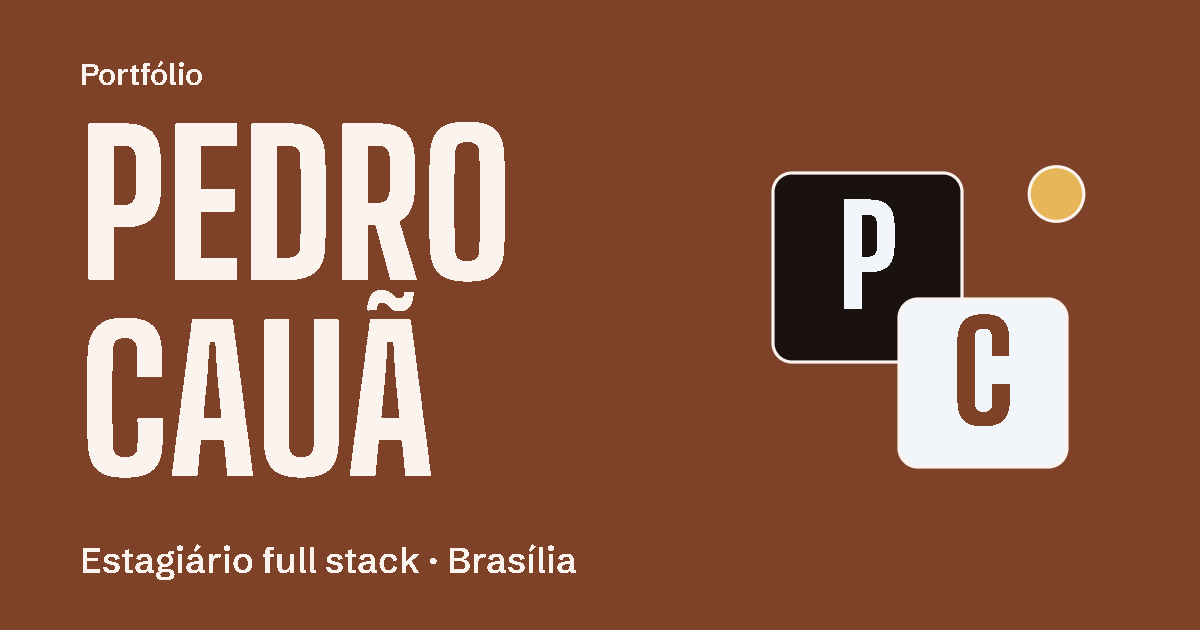
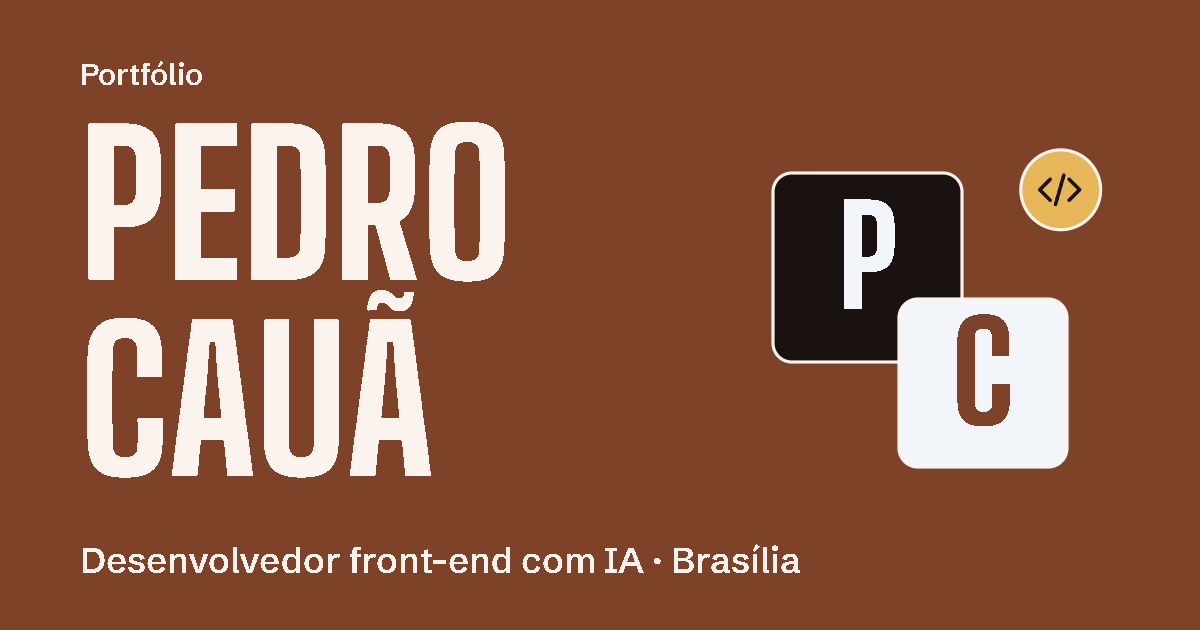
Posicionamento: desenvolvedor front-end com IA (estagiário só na Trajetória)

Changed region(s): [[0.0617, 0.8444, 0.6783, 0.9349], [0.8325, 0.2111, 0.925, 0.3921]]

diff --git a/index.html b/index.html
@@ -3,8 +3,8 @@
 <head>
 <meta charset="utf-8">
 <meta name="viewport" content="width=device-width, initial-scale=1, viewport-fit=cover">
-<title>Pedro Cauã · Estagiário full stack</title>
-<meta name="description" content="Portfólio de Pedro Cauã, estagiário full stack em Brasília. Angular e testes unitários no TSE, QA, projetos com IA aplicada, o Nodify (meu TCC) e certificados.">
+<title>Pedro Cauã · Desenvolvedor front-end com IA</title>
+<meta name="description" content="Portfólio de Pedro Cauã, desenvolvedor front-end que atua com IA, em Brasília. Angular e testes unitários no TSE, QA, projetos com IA aplicada, o Nodify (meu TCC) e certificados.">
 <meta name="author" content="Pedro Cauã">
 <meta name="color-scheme" content="dark light">
 <script>document.documentElement.classList.remove("no-js");try{var m=localStorage.getItem("motion");if(m==="on"||m==="off")document.documentElement.classList.add("motion-"+m);var lg=localStorage.getItem("lang");if(lg==="en")document.documentElement.setAttribute("lang","en");var tm=localStorage.getItem("theme");if(tm==="light"||tm==="dark")document.documentElement.setAttribute("data-theme",tm)}catch(e){}</script>
@@ -14,16 +14,16 @@
 <meta property="og:type" content="website">
 <meta property="og:locale" content="pt_BR">
 <meta property="og:site_name" content="Pedro Cauã">
-<meta property="og:title" content="Pedro Cauã · Estagiário full stack">
-<meta property="og:description" content="Portfólio de Pedro Cauã, estagiário full stack em Brasília. Angular e testes unitários no TSE, QA, projetos com IA aplicada, o Nodify (meu TCC) e certificados.">
+<meta property="og:title" content="Pedro Cauã · Desenvolvedor front-end com IA">
+<meta property="og:description" content="Portfólio de Pedro Cauã, desenvolvedor front-end que atua com IA, em Brasília. Angular e testes unitários no TSE, QA, projetos com IA aplicada, o Nodify (meu TCC) e certificados.">
 <meta property="og:url" content="https://portfolio-pedro-caua.vercel.app/">
 <meta property="og:image" content="https://portfolio-pedro-caua.vercel.app/og.png">
 <meta property="og:image:width" content="1200">
 <meta property="og:image:height" content="630">
-<meta property="og:image:alt" content="Pedro Cauã, estagiário full stack em Brasília, com os quadrados P e C sobre fundo terracota">
+<meta property="og:image:alt" content="Pedro Cauã, desenvolvedor front-end com IA em Brasília, com os quadrados P e C sobre fundo terracota">
 <meta name="twitter:card" content="summary_large_image">
-<meta name="twitter:title" content="Pedro Cauã · Estagiário full stack">
-<meta name="twitter:description" content="Portfólio de Pedro Cauã, estagiário full stack em Brasília. Angular e testes unitários no TSE, QA, projetos com IA aplicada, o Nodify (meu TCC) e certificados.">
+<meta name="twitter:title" content="Pedro Cauã · Desenvolvedor front-end com IA">
+<meta name="twitter:description" content="Portfólio de Pedro Cauã, desenvolvedor front-end que atua com IA, em Brasília. Angular e testes unitários no TSE, QA, projetos com IA aplicada, o Nodify (meu TCC) e certificados.">
 <meta name="twitter:image" content="https://portfolio-pedro-caua.vercel.app/og.png">
 <script type="application/ld+json">
 {
@@ -31,8 +31,8 @@
   "@type": "Person",
   "name": "Pedro Cauã Rodrigues Pereira",
   "alternateName": "Pedro Cauã",
-  "jobTitle": "Estagiário full stack",
-  "description": "Portfólio de Pedro Cauã, estagiário full stack em Brasília. Angular e testes unitários no TSE, QA, projetos com IA aplicada, o Nodify (meu TCC) e certificados.",
+  "jobTitle": "Desenvolvedor front-end",
+  "description": "Portfólio de Pedro Cauã, desenvolvedor front-end que atua com IA, em Brasília. Angular e testes unitários no TSE, QA, projetos com IA aplicada, o Nodify (meu TCC) e certificados.",
   "url": "https://portfolio-pedro-caua.vercel.app/",
   "image": "https://portfolio-pedro-caua.vercel.app/assets/foto-pedro-576.webp",
   "worksFor": {
@@ -531,9 +531,9 @@ p{text-wrap:pretty}
   <section id="inicio" class="hero" data-tone="accent" aria-labelledby="nome">
     <div class="wrap hero-grid">
       <div class="hero-text">
-        <p class="mono eyebrow">Brasília · Ciência da Computação, 7º semestre</p>
+        <p class="mono eyebrow">Desenvolvedor front-end com IA · Brasília</p>
         <h1 id="nome" class="nome" translate="no" aria-label="Pedro Cauã"><span class="line"><span class="word">Pedro</span></span> <span class="line"><span class="word">Cauã</span></span></h1>
-        <p class="lede">Faço estágio full stack no Tribunal Superior Eleitoral e curso Ciência da Computação na UCB. Antes, passei por marketing digital e por infraestrutura de TI.</p>
+        <p class="lede">Desenvolvo front-end com Angular e JavaScript no Tribunal Superior Eleitoral e uso IA no trabalho. Curso Ciência da Computação na UCB. Antes, passei por marketing digital e por infraestrutura de TI.</p>
         <p class="hero-status"><span class="dot" aria-hidden="true"></span>Busco oportunidades em desenvolvimento de software, qualidade e IA aplicada.</p>
         <div class="hero-cta">
           <a class="btn btn--solid" href="#projetos">Ver projetos</a>
@@ -795,16 +795,16 @@ p{text-wrap:pretty}
       <div class="sobre-text">
         <p class="mono eyebrow">Sobre</p>
         <h2 id="t-sobre" class="h-giant" data-reveal>Quem sou eu?</h2>
-        <p data-reveal>Sou o <span translate="no">Pedro Cauã</span>, estudante do 7º semestre de Ciência da Computação na UCB e estagiário full stack no Tribunal Superior Eleitoral. Cuido de dois sistemas com Angular e JavaScript e, algumas vezes, atuo como QA.</p>
+        <p data-reveal>Sou o <span translate="no">Pedro Cauã</span>, estudante do 7º semestre de Ciência da Computação na UCB e desenvolvedor front-end no Tribunal Superior Eleitoral. Cuido de dois sistemas com Angular e JavaScript e, algumas vezes, atuo como QA. Também desenho e uso agentes de IA no trabalho.</p>
         <p>Já passei por marketing digital na Muvve Tech, com tráfego pago e desenvolvimento, e por infraestrutura de TI na Novacap. Hoje também aplico IA no meu fluxo de trabalho, com agentes e skills que ajudam na análise de tarefas e na revisão de código.</p>
         <p>Gosto de software que as pessoas conseguem usar. Meu TCC, o Nodify, é um aplicativo de acessibilidade que controla o Spotify com movimentos da cabeça.</p>
       </div>
       <div class="id-card" data-tone="dark">
         <div class="id-top">
           <div class="mono-tile"><span aria-hidden="true">PC</span><img src="assets/foto-pedro-288.webp" translate="no" srcset="assets/foto-pedro-288.webp 288w, assets/foto-pedro-576.webp 576w" sizes="96px" width="96" height="96" alt="Foto de Pedro Cauã" loading="lazy" decoding="async"></div>
-          <div><h3 translate="no">Pedro Cauã</h3><p>Estagiário full stack · TSE</p></div>
+          <div><h3 translate="no">Pedro Cauã</h3><p>Desenvolvedor front-end · TSE</p></div>
         </div>
-        <div class="tags"><span class="chip">Full stack</span><span class="chip">QA</span><span class="chip">IA aplicada</span><span class="chip">Marketing digital</span></div>
+        <div class="tags"><span class="chip">Front-end</span><span class="chip">QA</span><span class="chip">IA aplicada</span><span class="chip">Marketing digital</span></div>
         <p class="id-meta mono">Currículo · PDF · 2 páginas · atualizado em out/2026</p>
         <div class="id-cv">
           <a class="btn btn--solid" href="assets/curriculo-pedro-caua.pdf" download="Curriculo-Pedro-Caua.pdf" aria-label="Baixar currículo em PDF">Baixar currículo (PDF)</a>
@@ -844,7 +844,7 @@ p{text-wrap:pretty}
   function $$(s, r){ return Array.prototype.slice.call((r || document).querySelectorAll(s)); }
   /* ----- idioma: o HTML é em português; em inglês o script troca os textos pelo dicionário (a troca de idioma recarrega a página) ----- */
   var LANG = root.getAttribute("lang") === "en" ? "en" : "pt";
-  var EN = {"Foto de Pedro Cauã":"Photo of Pedro Cauã","Ir para o conteúdo":"Skip to content","Trajetória":"Timeline","Projetos":"Projects","Agentes":"Agents","Habilidades":"Skills","Sobre":"About","Contato":"Contact","Tema claro":"Light theme","Tema escuro":"Dark theme","Animações: ligadas":"Animations: on","Animações: desligadas":"Animations: off","Pedro Cauã, início":"Pedro Cauã, home","Seções":"Sections","Redes":"Social links","GitHub de Pedro Cauã":"Pedro Cauã on GitHub","LinkedIn de Pedro Cauã":"Pedro Cauã on LinkedIn","Enviar e-mail para Pedro Cauã":"Email Pedro Cauã","Abrir menu":"Open menu","Fechar menu":"Close menu","Menu":"Menu","Brasília · Ciência da Computação, 7º semestre":"Brasília · Computer Science, 7th semester","Faço estágio full stack no Tribunal Superior Eleitoral e curso Ciência da Computação na UCB. Antes, passei por marketing digital e por infraestrutura de TI.":"I'm a full stack intern at the Tribunal Superior Eleitoral (Brazil's Superior Electoral Court) and I study Computer Science at UCB. I also have experience in digital marketing and IT infrastructure.","Busco oportunidades em desenvolvimento de software, qualidade e IA aplicada.":"I'm looking for opportunities in software development, quality and applied AI.","Ver projetos":"See projects","Baixar currículo (PDF)":"Download CV (PDF, in Portuguese)","Baixar currículo em PDF":"Download the CV as a PDF (in Portuguese)","Tecnologias e ferramentas":"Technologies and tools","Trajetória · do mais antigo ao mais recente":"Timeline · oldest to newest","Em números":"In numbers","sistemas no TSE":"systems at the TSE","cursos concluídos":"courses completed","horas de curso":"course hours","projetos":"projects","itens":"items","item":"item","cursos":"courses","horas":"hours","de":"of","Tudo":"All","Trabalho":"Work","Certificados":"Certificates","Filtrar a trajetória":"Filter the timeline","Trajetória, role para o lado":"Timeline, scroll sideways","Anterior":"Previous","Próximo":"Next","Pausar rolagem automática":"Pause auto-scroll","Retomar rolagem automática":"Resume auto-scroll","Ago/2023 a ago/2027 · Formação":"Aug 2023 to Aug 2027 · Education","Ciência da Computação, 7º semestre":"Computer Science, 7th semester","Universidade Católica de Brasília. Disciplinas como Cálculo I, Pesquisa Operacional e Análise e Projeto de Software. O TCC é o Nodify.":"Catholic University of Brasília. Courses include Calculus I, Operations Research and Software Analysis and Design. My capstone project is Nodify.","Nivelamento em Matemática Elementar":"Elementary Mathematics (bridging course)","Nivelamento em Introdução às Finanças Corporativas":"Introduction to Corporate Finance (bridging course)","Fundamentos do SCRUM":"Scrum Fundamentals","Desenvolvimento colaborativo em GitHub":"Collaborative development on GitHub","Base acadêmica":"Academic base","Processos e equipe":"Process and teamwork","IA e dados":"AI and data","Python e APIs":"Python and APIs","Fev/2025 · 4 meses · Estágio":"Feb 2025 · 4 months · Internship","Estagiário de infraestrutura de TI":"IT infrastructure intern","Novacap. Estágio na área de infraestrutura de TI.":"Novacap. Internship in IT infrastructure.","Algoritmos e Lógica de Programação: o curso completo":"Algorithms and Programming Logic: the complete course","Ago/2025 a ago/2027 · Estágio":"Aug 2025 to Aug 2027 · Internship","Estagiário full stack":"Full stack intern","Tribunal Superior Eleitoral, SEUE. Trabalho em dois sistemas com Angular e JavaScript: funcionalidades, ajustes de interface e testes unitários. Em algumas demandas faço o papel de QA. Também desenvolvo agentes e skills de IA para o fluxo de trabalho.":"Superior Electoral Court (TSE), SEUE. I work on two systems with Angular and JavaScript: features, interface adjustments and unit tests. On some tasks I act as QA. I also build AI agents and skills for the work process.","Figma Design de Interfaces, do zero ao profissional":"Figma Interface Design, from scratch to professional","Testes Unitários do Zero com Angular, Jasmine e Karma":"Unit Testing from Scratch with Angular, Jasmine and Karma","2026 · 6 meses · Em paralelo ao TSE":"2026 · 6 months · Alongside the TSE","Gestor de tráfego e desenvolvedor":"Traffic manager and developer","Muvve Tech. Campanhas de tráfego pago no Google Ads e no Meta Ads para clientes. Também cuidei de redes sociais, propostas comerciais e contratos em layout padronizado.":"Muvve Tech. Paid traffic campaigns on Google Ads and Meta Ads for clients. I also handled social media, commercial proposals and contracts in a standard layout.","Três projetos: o app de acessibilidade do meu TCC, o fluxo de agentes que uso no TSE e um assistente de voz que fiz por hobby.":"Three projects: the accessibility app from my capstone, the agent workflow I use at the TSE and a voice assistant I built as a hobby.","TCC · UCB":"Capstone · UCB","É o meu TCC na UCB: um app Android que controla o Spotify com movimentos da cabeça. A câmera frontal capta o gesto e tudo é processado no próprio celular. Começou como ferramenta de acessibilidade e já tem modelagem UML e documentação completa.":"It's my capstone project at UCB: an Android app that controls Spotify with head movements. The front camera picks up the gesture and everything is processed on the phone itself. It started as an accessibility tool and already has UML modeling and full documentation.","visão computacional":"computer vision","acessibilidade":"accessibility","no aparelho":"on-device","Ver o Nodify em ação":"See Nodify in action","Documentação técnica":"Technical documentation","fluxo de trabalho":"workflow","Agentes de IA no trabalho":"AI agents at work","No TSE, desenvolvo agentes e skills de IA no Claude Code para analisar tarefas, escrever histórias de usuário e apoiar a implementação e a revisão de código. O hu-analyst e o agent-dev já estão em uso; o code-reviewer e o orquestrador ainda estão em desenho. Nada entra sem a minha aprovação.":"At the TSE, I build AI agents and skills in Claude Code to analyze tasks, write user stories and support implementation and code review. The hu-analyst and agent-dev are already in use; the code-reviewer and the orchestrator are still being designed. Nothing goes in without my approval.","agentes":"agents","revisão humana":"human review","Ver o fluxo":"See the workflow","concluído":"completed","voz":"voice","automação":"automation","Um assistente de IA que obedece a comandos de voz. Fiz por hobby, para testar automação, agentes e leitura de mensagens.":"An AI assistant that takes voice commands. I built it as a hobby to try out automation, agents and reading messages.","Continue rolando para ver todos os projetos →":"Keep scrolling to see all projects →","Nodify · ilustração do conceito":"Nodify · concept illustration","Nodify em ação":"Nodify in action","A câmera frontal acompanha a cabeça e o app transforma cada gesto em um comando do Spotify.":"The front camera follows the head and the app turns each gesture into a Spotify command.","Detecção do rosto":"Face detection","A câmera encontra o rosto. A imagem não sai do celular.":"The camera finds the face. The image never leaves the phone.","Cabeça para a direita":"Head turn to the right","Pula a faixa.":"Skips the track.","Cabeça para a esquerda":"Head turn to the left","Volta para a faixa anterior.":"Goes back to the previous track.","Aceno para baixo":"Nod down","Abaixa a música.":"Turns the music down.","Processamento 100% no aparelho":"100% on-device processing","câmera ativa":"camera on","rosto detectado":"face detected","Tocando agora":"Now playing","Faixa":"Track","Faixa 1":"Track 1","Faixa 2":"Track 2","Tocando":"Playing","Volume menor":"Volume down","Ilustração do conceito":"Concept illustration","Agentes no trabalho · 4 etapas":"Agents at work · 4 steps","Como uso agentes no trabalho":"How I use agents at work","em uso":"in use","em desenho":"being designed","orquestrador":"orchestrator","Entende a tarefa antes de qualquer código":"Understands the task before any code","Lê o texto e as imagens da tarefa e monta o contexto para a etapa seguinte.":"Reads the task text and images and builds the context for the next step.","Implementa dentro do padrão do projeto":"Implements within the project's standards","Atua em front e back e segue a lógica que já existe, sem mudar o que não foi pedido.":"Works on front and back end and follows the existing logic, without changing what wasn't asked.","Revisa e procura vulnerabilidades":"Reviews and looks for vulnerabilities","Confere o que o agent-dev entregou antes de qualquer pessoa abrir o código.":"Checks what agent-dev delivered before anyone opens the code.","Faz os agentes conversarem":"Gets the agents talking to each other","Passa o trabalho de um agente para o outro e confere cada etapa até a entrega.":"Hands the work from one agent to the next and checks each step through to delivery.","fluxo de agentes que desenhei":"agent workflow I designed","Fluxo de agentes desenhado por mim":"Agent workflow I designed","Lê a tarefa, o texto e as imagens. Monta o contexto.":"Reads the task, text and images. Builds the context.","Implementa seguindo o padrão do projeto.":"Implements following the project's standards.","Revisa o código e procura vulnerabilidades.":"Reviews the code and looks for vulnerabilities.","Confere cada etapa até a entrega.":"Checks each step through to delivery.","→ entrega pronta para revisão humana":"→ delivery ready for human review","Quem aprova sou eu":"I'm the one who approves","As skills aprendem com o uso. A cada 5 tarefas concluídas fazem uma retrospectiva e gravam uma proposta de melhoria. Nada muda sem a minha aprovação.":"The skills learn from use. After every 5 finished tasks they run a retrospective and write down an improvement proposal. Nothing changes without my approval.","Agentes para vários projetos":"Agents for many projects","Não ficam presos a um repositório. Atuam em frontend e backend, em projetos diferentes, e viraram skills instaláveis.":"They aren't tied to one repository. They work on front end and back end, across different projects, and became installable skills.","Protótipo descartável":"Throwaway prototype","Prototipo direto no projeto, em uma branch local que nunca sobe. Tiro os prints e descarto. É mais rápido que desenhar tudo em ferramenta de design.":"I prototype straight in the project, on a local branch that never gets pushed. I take the screenshots and throw it away. It's faster than drawing everything in a design tool.","Habilidades · 4 áreas":"Skills · 4 areas","Áreas de habilidade":"Skill areas","Processo":"Process","Negócio":"Business","No TSE, desenvolvo funcionalidades, ajusto interfaces e escrevo testes unitários em Angular 16. Este portfólio eu fiz em HTML, CSS e JavaScript puro, com GSAP nas animações.":"At the TSE, I build features, adjust interfaces and write unit tests in Angular 16. I built this portfolio in plain HTML, CSS and JavaScript, with GSAP for the animations.","Testes unitários":"Unit tests","Uso o Claude Code para criar agentes e skills. No Nodify, trabalho com visão computacional no próprio aparelho. Estudei aprendizado de máquina, supervisionado e não supervisionado, com scikit-learn. No AlavancaquIA, um diagnóstico de landing pages para pequenos negócios, o Gemini roda no servidor e o lead segue para o WhatsApp.":"I use Claude Code to create agents and skills. In Nodify, I work with computer vision on the device itself. I studied machine learning, supervised and unsupervised, with scikit-learn. In AlavancaquIA, a landing page diagnostic tool for small businesses, Gemini runs on the server and the lead continues on WhatsApp.","Fiz dois cursos de 30 h na UCB, um de Scrum e outro de trabalho colaborativo no GitHub. Nos fluxos com agentes, a tarefa passa por análise, implementação e revisão, e eu aprovo no fim. Os protótipos ficam em uma branch local que nunca sobe.":"I took two 30-hour courses at UCB, one on Scrum and one on collaborative work on GitHub. In agent workflows, the task goes through analysis, implementation and review, and I approve at the end. Prototypes stay on a local branch that never gets pushed.","Git e GitHub":"Git and GitHub","Revisão de código":"Code review","Em 2026, passei seis meses na Muvve Tech como gestor de tráfego e desenvolvedor. Cuidei de campanhas pagas no Google Ads e no Meta Ads, das redes sociais, de propostas comerciais e de contratos em layout padronizado.":"In 2026, I spent six months at Muvve Tech as a traffic manager and developer. I handled paid campaigns on Google Ads and Meta Ads, social media, commercial proposals and contracts in a standard layout.","Redes sociais":"Social media","Propostas e contratos":"Proposals and contracts","Quem sou eu?":"Who am I?","Sou o":"I'm",", estudante do 7º semestre de Ciência da Computação na UCB e estagiário full stack no Tribunal Superior Eleitoral. Cuido de dois sistemas com Angular e JavaScript e, algumas vezes, atuo como QA.":", a 7th-semester Computer Science student at UCB and a full stack intern at the Tribunal Superior Eleitoral (Brazil's Superior Electoral Court). I look after two systems with Angular and JavaScript and, sometimes, work as QA.","Já passei por marketing digital na Muvve Tech, com tráfego pago e desenvolvimento, e por infraestrutura de TI na Novacap. Hoje também aplico IA no meu fluxo de trabalho, com agentes e skills que ajudam na análise de tarefas e na revisão de código.":"I've worked in digital marketing at Muvve Tech, with paid traffic and development, and in IT infrastructure at Novacap. Today I also use AI in my workflow, with agents and skills that help with task analysis and code review.","Gosto de software que as pessoas conseguem usar. Meu TCC, o Nodify, é um aplicativo de acessibilidade que controla o Spotify com movimentos da cabeça.":"I like software that people can actually use. My capstone project, Nodify, is an accessibility app that controls Spotify with head movements.","Estagiário full stack · TSE":"Full stack intern · TSE","IA aplicada":"Applied AI","Marketing digital":"Digital marketing","Currículo · PDF · 2 páginas · atualizado em out/2026":"Résumé · PDF · 2 pages · updated Oct 2026 · in Portuguese","Abrir no navegador":"Open in browser","Vamos conversar?":"Let's talk?","Busco oportunidades em desenvolvimento de software, qualidade e IA aplicada. Se tem algo assim na sua equipe, me chama.":"I'm looking for opportunities in software development, quality and applied AI. If your team has something like that, get in touch.","Copiar":"Copy","Copiado":"Copied","Não foi possível copiar":"Couldn't copy"};
+  var EN = {"Foto de Pedro Cauã":"Photo of Pedro Cauã","Ir para o conteúdo":"Skip to content","Trajetória":"Timeline","Projetos":"Projects","Agentes":"Agents","Habilidades":"Skills","Sobre":"About","Contato":"Contact","Tema claro":"Light theme","Tema escuro":"Dark theme","Animações: ligadas":"Animations: on","Animações: desligadas":"Animations: off","Pedro Cauã, início":"Pedro Cauã, home","Seções":"Sections","Redes":"Social links","GitHub de Pedro Cauã":"Pedro Cauã on GitHub","LinkedIn de Pedro Cauã":"Pedro Cauã on LinkedIn","Enviar e-mail para Pedro Cauã":"Email Pedro Cauã","Abrir menu":"Open menu","Fechar menu":"Close menu","Menu":"Menu","Desenvolvedor front-end com IA · Brasília":"Front-end developer working with AI · Brasília","Desenvolvo front-end com Angular e JavaScript no Tribunal Superior Eleitoral e uso IA no trabalho. Curso Ciência da Computação na UCB. Antes, passei por marketing digital e por infraestrutura de TI.":"I build front-end with Angular and JavaScript at Brazil's Tribunal Superior Eleitoral and use AI at work. I study Computer Science at UCB. Before, I worked in digital marketing and IT infrastructure.","Busco oportunidades em desenvolvimento de software, qualidade e IA aplicada.":"I'm looking for opportunities in software development, quality and applied AI.","Ver projetos":"See projects","Baixar currículo (PDF)":"Download CV (PDF, in Portuguese)","Baixar currículo em PDF":"Download the CV as a PDF (in Portuguese)","Tecnologias e ferramentas":"Technologies and tools","Trajetória · do mais antigo ao mais recente":"Timeline · oldest to newest","Em números":"In numbers","sistemas no TSE":"systems at the TSE","cursos concluídos":"courses completed","horas de curso":"course hours","projetos":"projects","itens":"items","item":"item","cursos":"courses","horas":"hours","de":"of","Tudo":"All","Trabalho":"Work","Certificados":"Certificates","Filtrar a trajetória":"Filter the timeline","Trajetória, role para o lado":"Timeline, scroll sideways","Anterior":"Previous","Próximo":"Next","Pausar rolagem automática":"Pause auto-scroll","Retomar rolagem automática":"Resume auto-scroll","Ago/2023 a ago/2027 · Formação":"Aug 2023 to Aug 2027 · Education","Ciência da Computação, 7º semestre":"Computer Science, 7th semester","Universidade Católica de Brasília. Disciplinas como Cálculo I, Pesquisa Operacional e Análise e Projeto de Software. O TCC é o Nodify.":"Catholic University of Brasília. Courses include Calculus I, Operations Research and Software Analysis and Design. My capstone project is Nodify.","Nivelamento em Matemática Elementar":"Elementary Mathematics (bridging course)","Nivelamento em Introdução às Finanças Corporativas":"Introduction to Corporate Finance (bridging course)","Fundamentos do SCRUM":"Scrum Fundamentals","Desenvolvimento colaborativo em GitHub":"Collaborative development on GitHub","Base acadêmica":"Academic base","Processos e equipe":"Process and teamwork","IA e dados":"AI and data","Python e APIs":"Python and APIs","Fev/2025 · 4 meses · Estágio":"Feb 2025 · 4 months · Internship","Estagiário de infraestrutura de TI":"IT infrastructure intern","Novacap. Estágio na área de infraestrutura de TI.":"Novacap. Internship in IT infrastructure.","Algoritmos e Lógica de Programação: o curso completo":"Algorithms and Programming Logic: the complete course","Ago/2025 a ago/2027 · Estágio":"Aug 2025 to Aug 2027 · Internship","Estagiário full stack":"Full stack intern","Tribunal Superior Eleitoral, SEUE. Trabalho em dois sistemas com Angular e JavaScript: funcionalidades, ajustes de interface e testes unitários. Em algumas demandas faço o papel de QA. Também desenvolvo agentes e skills de IA para o fluxo de trabalho.":"Superior Electoral Court (TSE), SEUE. I work on two systems with Angular and JavaScript: features, interface adjustments and unit tests. On some tasks I act as QA. I also build AI agents and skills for the work process.","Figma Design de Interfaces, do zero ao profissional":"Figma Interface Design, from scratch to professional","Testes Unitários do Zero com Angular, Jasmine e Karma":"Unit Testing from Scratch with Angular, Jasmine and Karma","2026 · 6 meses · Em paralelo ao TSE":"2026 · 6 months · Alongside the TSE","Gestor de tráfego e desenvolvedor":"Traffic manager and developer","Muvve Tech. Campanhas de tráfego pago no Google Ads e no Meta Ads para clientes. Também cuidei de redes sociais, propostas comerciais e contratos em layout padronizado.":"Muvve Tech. Paid traffic campaigns on Google Ads and Meta Ads for clients. I also handled social media, commercial proposals and contracts in a standard layout.","Três projetos: o app de acessibilidade do meu TCC, o fluxo de agentes que uso no TSE e um assistente de voz que fiz por hobby.":"Three projects: the accessibility app from my capstone, the agent workflow I use at the TSE and a voice assistant I built as a hobby.","TCC · UCB":"Capstone · UCB","É o meu TCC na UCB: um app Android que controla o Spotify com movimentos da cabeça. A câmera frontal capta o gesto e tudo é processado no próprio celular. Começou como ferramenta de acessibilidade e já tem modelagem UML e documentação completa.":"It's my capstone project at UCB: an Android app that controls Spotify with head movements. The front camera picks up the gesture and everything is processed on the phone itself. It started as an accessibility tool and already has UML modeling and full documentation.","visão computacional":"computer vision","acessibilidade":"accessibility","no aparelho":"on-device","Ver o Nodify em ação":"See Nodify in action","Documentação técnica":"Technical documentation","fluxo de trabalho":"workflow","Agentes de IA no trabalho":"AI agents at work","No TSE, desenvolvo agentes e skills de IA no Claude Code para analisar tarefas, escrever histórias de usuário e apoiar a implementação e a revisão de código. O hu-analyst e o agent-dev já estão em uso; o code-reviewer e o orquestrador ainda estão em desenho. Nada entra sem a minha aprovação.":"At the TSE, I build AI agents and skills in Claude Code to analyze tasks, write user stories and support implementation and code review. The hu-analyst and agent-dev are already in use; the code-reviewer and the orchestrator are still being designed. Nothing goes in without my approval.","agentes":"agents","revisão humana":"human review","Ver o fluxo":"See the workflow","concluído":"completed","voz":"voice","automação":"automation","Um assistente de IA que obedece a comandos de voz. Fiz por hobby, para testar automação, agentes e leitura de mensagens.":"An AI assistant that takes voice commands. I built it as a hobby to try out automation, agents and reading messages.","Continue rolando para ver todos os projetos →":"Keep scrolling to see all projects →","Nodify · ilustração do conceito":"Nodify · concept illustration","Nodify em ação":"Nodify in action","A câmera frontal acompanha a cabeça e o app transforma cada gesto em um comando do Spotify.":"The front camera follows the head and the app turns each gesture into a Spotify command.","Detecção do rosto":"Face detection","A câmera encontra o rosto. A imagem não sai do celular.":"The camera finds the face. The image never leaves the phone.","Cabeça para a direita":"Head turn to the right","Pula a faixa.":"Skips the track.","Cabeça para a esquerda":"Head turn to the left","Volta para a faixa anterior.":"Goes back to the previous track.","Aceno para baixo":"Nod down","Abaixa a música.":"Turns the music down.","Processamento 100% no aparelho":"100% on-device processing","câmera ativa":"camera on","rosto detectado":"face detected","Tocando agora":"Now playing","Faixa":"Track","Faixa 1":"Track 1","Faixa 2":"Track 2","Tocando":"Playing","Volume menor":"Volume down","Ilustração do conceito":"Concept illustration","Agentes no trabalho · 4 etapas":"Agents at work · 4 steps","Como uso agentes no trabalho":"How I use agents at work","em uso":"in use","em desenho":"being designed","orquestrador":"orchestrator","Entende a tarefa antes de qualquer código":"Understands the task before any code","Lê o texto e as imagens da tarefa e monta o contexto para a etapa seguinte.":"Reads the task text and images and builds the context for the next step.","Implementa dentro do padrão do projeto":"Implements within the project's standards","Atua em front e back e segue a lógica que já existe, sem mudar o que não foi pedido.":"Works on front and back end and follows the existing logic, without changing what wasn't asked.","Revisa e procura vulnerabilidades":"Reviews and looks for vulnerabilities","Confere o que o agent-dev entregou antes de qualquer pessoa abrir o código.":"Checks what agent-dev delivered before anyone opens the code.","Faz os agentes conversarem":"Gets the agents talking to each other","Passa o trabalho de um agente para o outro e confere cada etapa até a entrega.":"Hands the work from one agent to the next and checks each step through to delivery.","fluxo de agentes que desenhei":"agent workflow I designed","Fluxo de agentes desenhado por mim":"Agent workflow I designed","Lê a tarefa, o texto e as imagens. Monta o contexto.":"Reads the task, text and images. Builds the context.","Implementa seguindo o padrão do projeto.":"Implements following the project's standards.","Revisa o código e procura vulnerabilidades.":"Reviews the code and looks for vulnerabilities.","Confere cada etapa até a entrega.":"Checks each step through to delivery.","→ entrega pronta para revisão humana":"→ delivery ready for human review","Quem aprova sou eu":"I'm the one who approves","As skills aprendem com o uso. A cada 5 tarefas concluídas fazem uma retrospectiva e gravam uma proposta de melhoria. Nada muda sem a minha aprovação.":"The skills learn from use. After every 5 finished tasks they run a retrospective and write down an improvement proposal. Nothing changes without my approval.","Agentes para vários projetos":"Agents for many projects","Não ficam presos a um repositório. Atuam em frontend e backend, em projetos diferentes, e viraram skills instaláveis.":"They aren't tied to one repository. They work on front end and back end, across different projects, and became installable skills.","Protótipo descartável":"Throwaway prototype","Prototipo direto no projeto, em uma branch local que nunca sobe. Tiro os prints e descarto. É mais rápido que desenhar tudo em ferramenta de design.":"I prototype straight in the project, on a local branch that never gets pushed. I take the screenshots and throw it away. It's faster than drawing everything in a design tool.","Habilidades · 4 áreas":"Skills · 4 areas","Áreas de habilidade":"Skill areas","Processo":"Process","Negócio":"Business","No TSE, desenvolvo funcionalidades, ajusto interfaces e escrevo testes unitários em Angular 16. Este portfólio eu fiz em HTML, CSS e JavaScript puro, com GSAP nas animações.":"At the TSE, I build features, adjust interfaces and write unit tests in Angular 16. I built this portfolio in plain HTML, CSS and JavaScript, with GSAP for the animations.","Testes unitários":"Unit tests","Uso o Claude Code para criar agentes e skills. No Nodify, trabalho com visão computacional no próprio aparelho. Estudei aprendizado de máquina, supervisionado e não supervisionado, com scikit-learn. No AlavancaquIA, um diagnóstico de landing pages para pequenos negócios, o Gemini roda no servidor e o lead segue para o WhatsApp.":"I use Claude Code to create agents and skills. In Nodify, I work with computer vision on the device itself. I studied machine learning, supervised and unsupervised, with scikit-learn. In AlavancaquIA, a landing page diagnostic tool for small businesses, Gemini runs on the server and the lead continues on WhatsApp.","Fiz dois cursos de 30 h na UCB, um de Scrum e outro de trabalho colaborativo no GitHub. Nos fluxos com agentes, a tarefa passa por análise, implementação e revisão, e eu aprovo no fim. Os protótipos ficam em uma branch local que nunca sobe.":"I took two 30-hour courses at UCB, one on Scrum and one on collaborative work on GitHub. In agent workflows, the task goes through analysis, implementation and review, and I approve at the end. Prototypes stay on a local branch that never gets pushed.","Git e GitHub":"Git and GitHub","Revisão de código":"Code review","Em 2026, passei seis meses na Muvve Tech como gestor de tráfego e desenvolvedor. Cuidei de campanhas pagas no Google Ads e no Meta Ads, das redes sociais, de propostas comerciais e de contratos em layout padronizado.":"In 2026, I spent six months at Muvve Tech as a traffic manager and developer. I handled paid campaigns on Google Ads and Meta Ads, social media, commercial proposals and contracts in a standard layout.","Redes sociais":"Social media","Propostas e contratos":"Proposals and contracts","Quem sou eu?":"Who am I?","Sou o":"I'm",", estudante do 7º semestre de Ciência da Computação na UCB e desenvolvedor front-end no Tribunal Superior Eleitoral. Cuido de dois sistemas com Angular e JavaScript e, algumas vezes, atuo como QA. Também desenho e uso agentes de IA no trabalho.":", a 7th-semester Computer Science student at UCB and a front-end developer at the Tribunal Superior Eleitoral (Brazil's Superior Electoral Court). I look after two systems with Angular and JavaScript and, sometimes, work as QA. I also design and use AI agents at work.","Já passei por marketing digital na Muvve Tech, com tráfego pago e desenvolvimento, e por infraestrutura de TI na Novacap. Hoje também aplico IA no meu fluxo de trabalho, com agentes e skills que ajudam na análise de tarefas e na revisão de código.":"I've worked in digital marketing at Muvve Tech, with paid traffic and development, and in IT infrastructure at Novacap. Today I also use AI in my workflow, with agents and skills that help with task analysis and code review.","Gosto de software que as pessoas conseguem usar. Meu TCC, o Nodify, é um aplicativo de acessibilidade que controla o Spotify com movimentos da cabeça.":"I like software that people can actually use. My capstone project, Nodify, is an accessibility app that controls Spotify with head movements.","Desenvolvedor front-end · TSE":"Front-end developer · TSE","IA aplicada":"Applied AI","Marketing digital":"Digital marketing","Currículo · PDF · 2 páginas · atualizado em out/2026":"Résumé · PDF · 2 pages · updated Oct 2026 · in Portuguese","Abrir no navegador":"Open in browser","Vamos conversar?":"Let's talk?","Busco oportunidades em desenvolvimento de software, qualidade e IA aplicada. Se tem algo assim na sua equipe, me chama.":"I'm looking for opportunities in software development, quality and applied AI. If your team has something like that, get in touch.","Copiar":"Copy","Copiado":"Copied","Não foi possível copiar":"Couldn't copy"};
   function T(s){ return LANG === "en" && EN[s] !== undefined ? EN[s] : s; }
   function formatoNum(v, dec){ return dec ? v.toLocaleString(LANG === "en" ? "en-US" : "pt-BR", { maximumFractionDigits: 1 }) : String(Math.round(v)); }
   (function traduzirPagina(){
@@ -866,8 +866,8 @@ p{text-wrap:pretty}
       t.textContent = d.toLocaleDateString("en-US", { month: "short", day: "numeric", year: "numeric" });
     });
     $$(".numeros .num").forEach(function(el){ el.textContent = formatoNum(parseFloat(el.getAttribute("data-to")), el.getAttribute("data-dec") === "1"); });
-    document.title = "Pedro Cauã · Full stack intern";
-    [["meta[name=description]", "Pedro Cauã's portfolio, full stack intern in Brasília. Angular and unit tests at the TSE, QA, applied AI projects, Nodify (my capstone) and certificates."], ["meta[property='og:title']", "Pedro Cauã · Full stack intern"], ["meta[property='og:description']", "Pedro Cauã's portfolio, full stack intern in Brasília. Angular and unit tests at the TSE, QA, applied AI projects, Nodify (my capstone) and certificates."], ["meta[name='twitter:title']", "Pedro Cauã · Full stack intern"], ["meta[name='twitter:description']", "Pedro Cauã's portfolio, full stack intern in Brasília. Angular and unit tests at the TSE, QA, applied AI projects, Nodify (my capstone) and certificates."]]
+    document.title = "Pedro Cauã · Front-end developer working with AI";
+    [["meta[name=description]", "Pedro Cauã's portfolio, front-end developer working with AI, in Brasília. Angular and unit tests at the TSE, QA, applied AI projects, Nodify (my capstone) and certificates."], ["meta[property='og:title']", "Pedro Cauã · Front-end developer working with AI"], ["meta[property='og:description']", "Pedro Cauã's portfolio, front-end developer working with AI, in Brasília. Angular and unit tests at the TSE, QA, applied AI projects, Nodify (my capstone) and certificates."], ["meta[name='twitter:title']", "Pedro Cauã · Front-end developer working with AI"], ["meta[name='twitter:description']", "Pedro Cauã's portfolio, front-end developer working with AI, in Brasília. Angular and unit tests at the TSE, QA, applied AI projects, Nodify (my capstone) and certificates."]]
       .forEach(function(p){ var m = $(p[0]); if(m) m.setAttribute("content", p[1]); });
     var loc = $("meta[property='og:locale']"); if(loc) loc.setAttribute("content", "en_US");
   })();

diff --git a/DESIGN.md b/DESIGN.md
@@ -75,7 +75,7 @@ Até 900px o Nodify não prende a tela: título, celular de até 340px e a lista
 
 ## Voz
 
-Primeira pessoa, frases de tamanhos diferentes, só fatos que a pessoa deu (cargo, período, projeto, curso). Segue a skill `web-escrita-humana`: sem travessão, sem trio por reflexo, sem tom de vendedor, sem adjetivo sobre si mesmo, sem conclusão genérica.
+Primeira pessoa, frases de tamanhos diferentes, só fatos que a pessoa deu (cargo, período, projeto, curso). Posicionamento: desenvolvedor front-end que atua com IA. A palavra "estagiário" aparece só na Trajetória (os dois estágios); no resto do site, na prévia de compartilhamento e nos dados estruturados o texto é "desenvolvedor front-end". Segue a skill `web-escrita-humana`: sem travessão, sem trio por reflexo, sem tom de vendedor, sem adjetivo sobre si mesmo, sem conclusão genérica.
 
 ## Evitar
 
